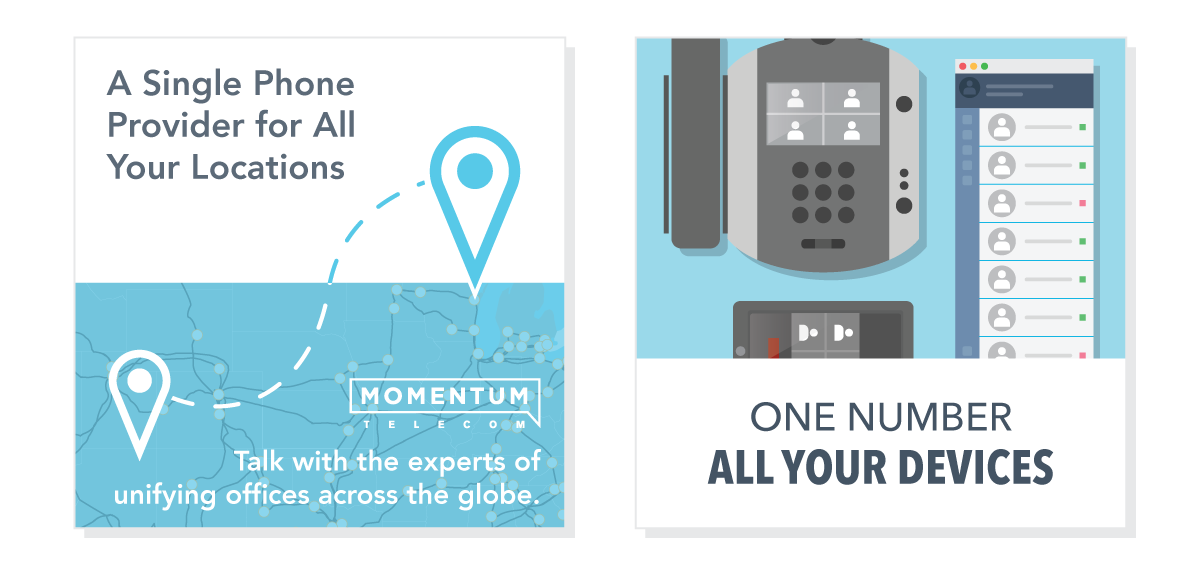
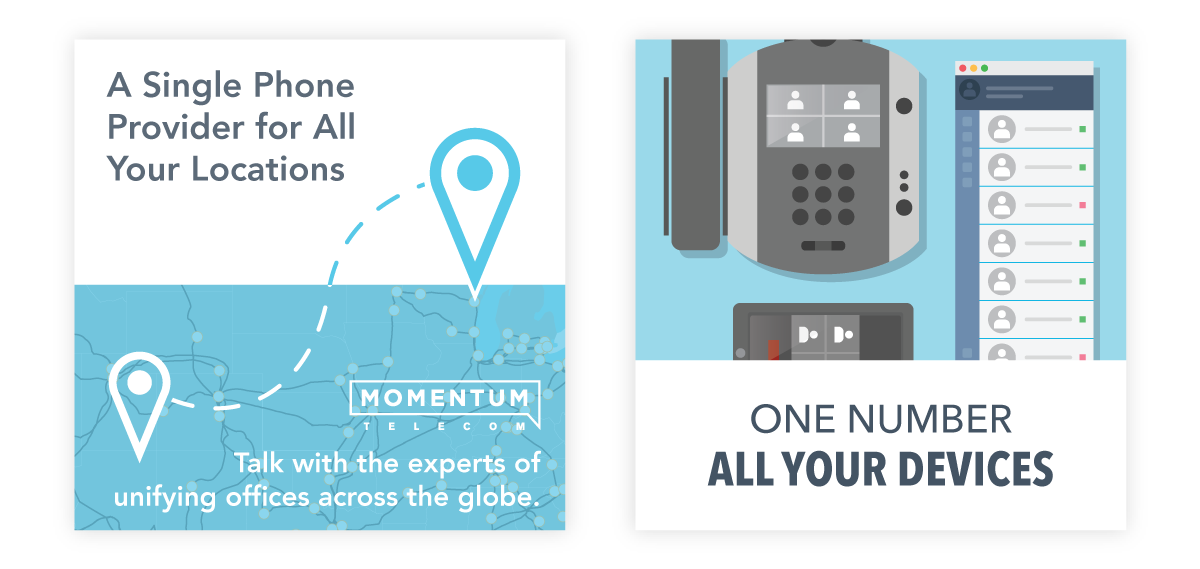
Adjust google ad images.

diff --git a/index.html b/index.html
@@ -859,7 +859,7 @@
               width="275"
               height="275"
               alt="Google Display Ads"
-              class="hard-shadow"
+              class="add-drop-shadow-light"
             />
           </div>
           <div class="piece_description">
